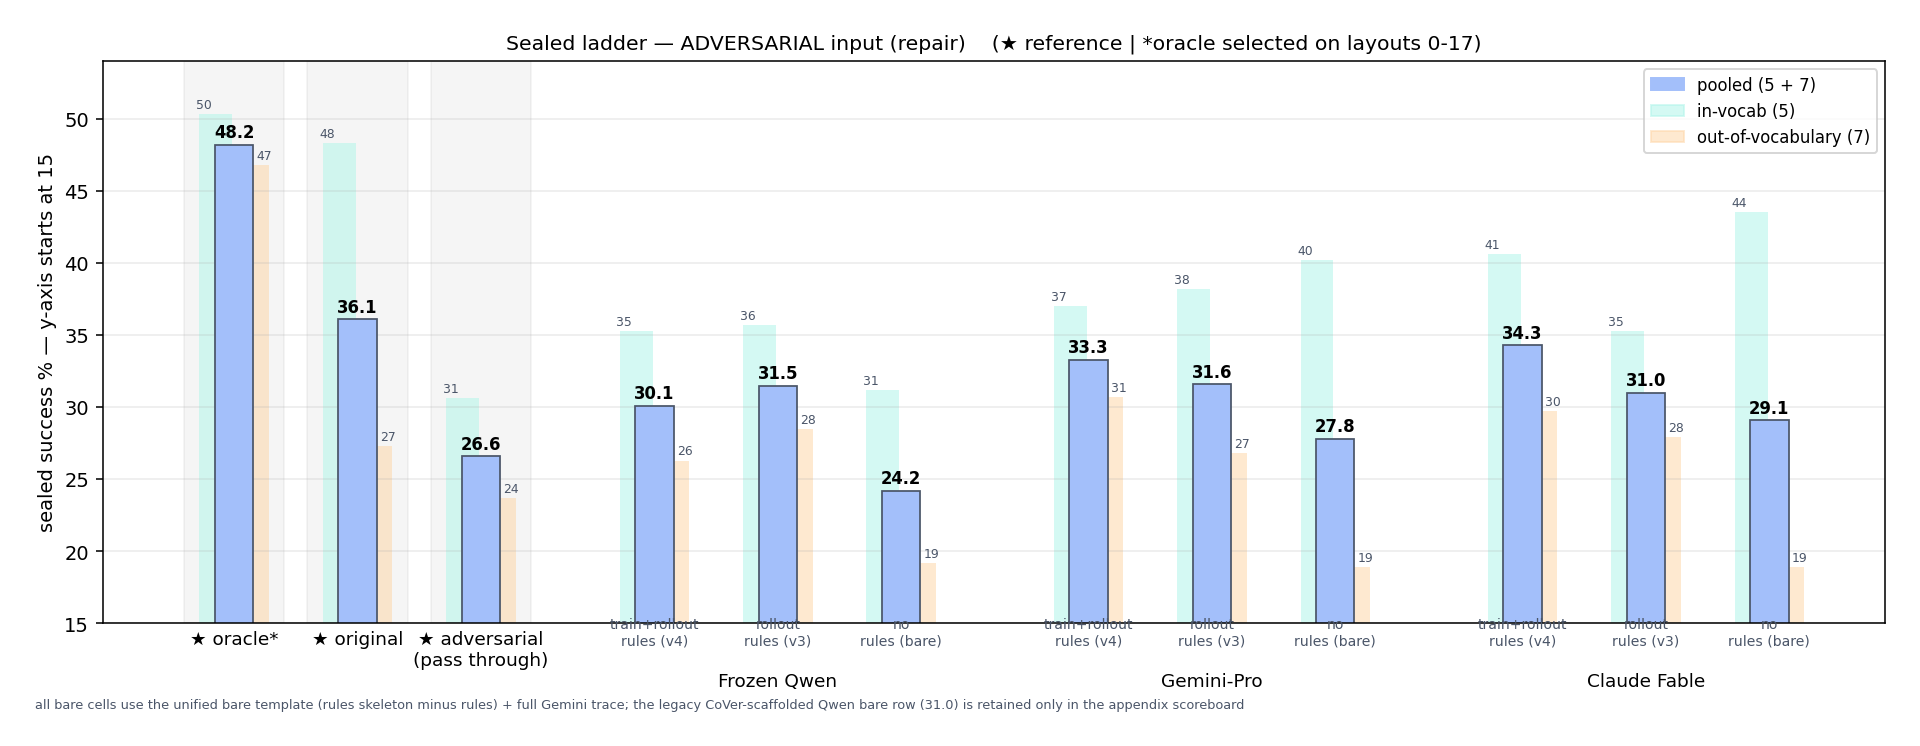
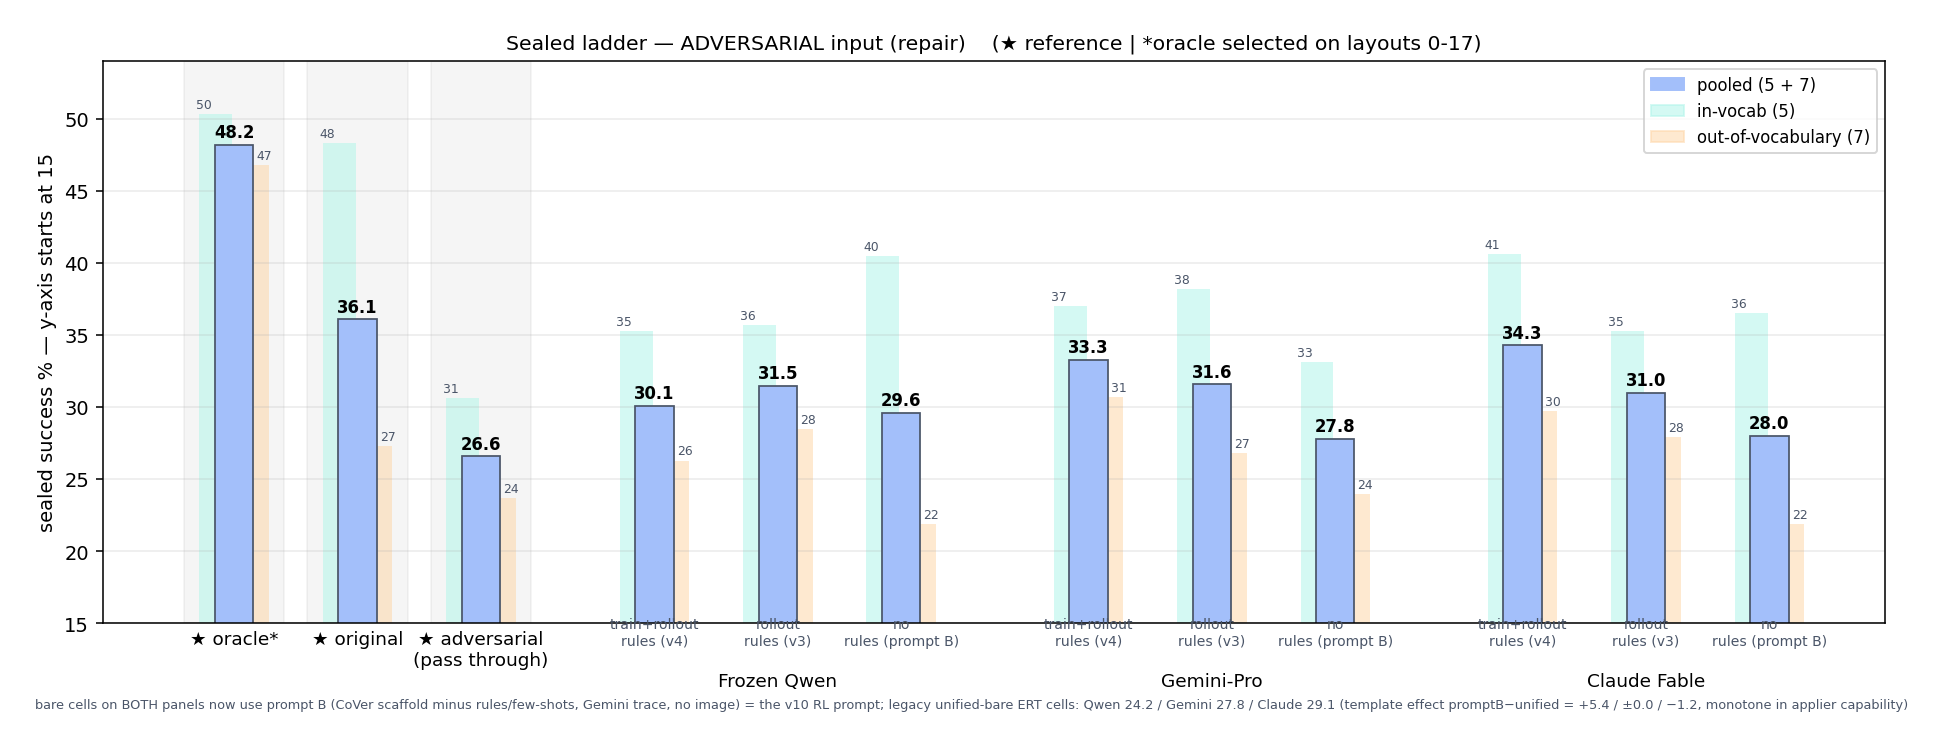
ERT ladder: bare column migrated to prompt B (template-matrix cells + canonical strata); legacy unified-bare to footnote

diff --git a/scripts/make_condition_ladders.py b/scripts/make_condition_ladders.py
@@ -15,11 +15,11 @@ REFS = [("oracle*", (48.2, 50.3, 46.8)), ("original", (36.1, 48.3, 27.3)),
 
 DATA = {
     "adversarial": {
-        "roles": ["train+rollout rules (v4)", "rollout rules (v3)", "no rules (bare)"],
+        "roles": ["train+rollout rules (v4)", "rollout rules (v3)", "no rules (prompt B)"],
         "models": {
-            "Frozen Qwen": [(30.1, 35.3, 26.3), (31.5, 35.7, 28.5), (24.2, 31.2, 19.2)],
-            "Gemini-Pro": [(33.3, 37.0, 30.7), (31.6, 38.2, 26.8), (27.8, 40.2, 18.9)],
-            "Claude Fable": [(34.3, 40.6, 29.7), (31.0, 35.3, 27.9), (29.1, 43.5, 18.9)],
+            "Frozen Qwen": [(30.1, 35.3, 26.3), (31.5, 35.7, 28.5), (29.6, 40.5, 21.9)],
+            "Gemini-Pro": [(33.3, 37.0, 30.7), (31.6, 38.2, 26.8), (27.8, 33.1, 24.0)],
+            "Claude Fable": [(34.3, 40.6, 29.7), (31.0, 35.3, 27.9), (28.0, 36.5, 21.9)],
         },
         "pending": {},
     },
@@ -96,9 +96,9 @@ for cond, spec in DATA.items():
     ax.set_title(f"Sealed ladder — {title_cond}    (★ reference | *oracle selected on layouts 0-17)",
                  fontsize=10.5)
     if cond == "adversarial":
-        fig.text(0.01, 0.005, "all bare cells use the unified bare template (rules skeleton minus rules) "
-                 "+ full Gemini trace; the legacy CoVer-scaffolded Qwen bare row (31.0) is retained only "
-                 "in the appendix scoreboard", fontsize=6.6, color="#4a5568")
+        fig.text(0.01, 0.005, "bare cells on BOTH panels now use prompt B (CoVer scaffold minus rules/few-shots, Gemini trace, no image) "
+                 "= the v10 RL prompt; legacy unified-bare ERT cells: Qwen 24.2 / Gemini 27.8 / Claude 29.1 "
+                 "(template effect promptB−unified = +5.4 / ±0.0 / −1.2, monotone in applier capability)", fontsize=6.6, color="#4a5568")
     fig.tight_layout()
     out = f"results/charts/sealed_ladder_{cond}.png"
     fig.savefig(out, dpi=140, bbox_inches="tight", pad_inches=0.25)
